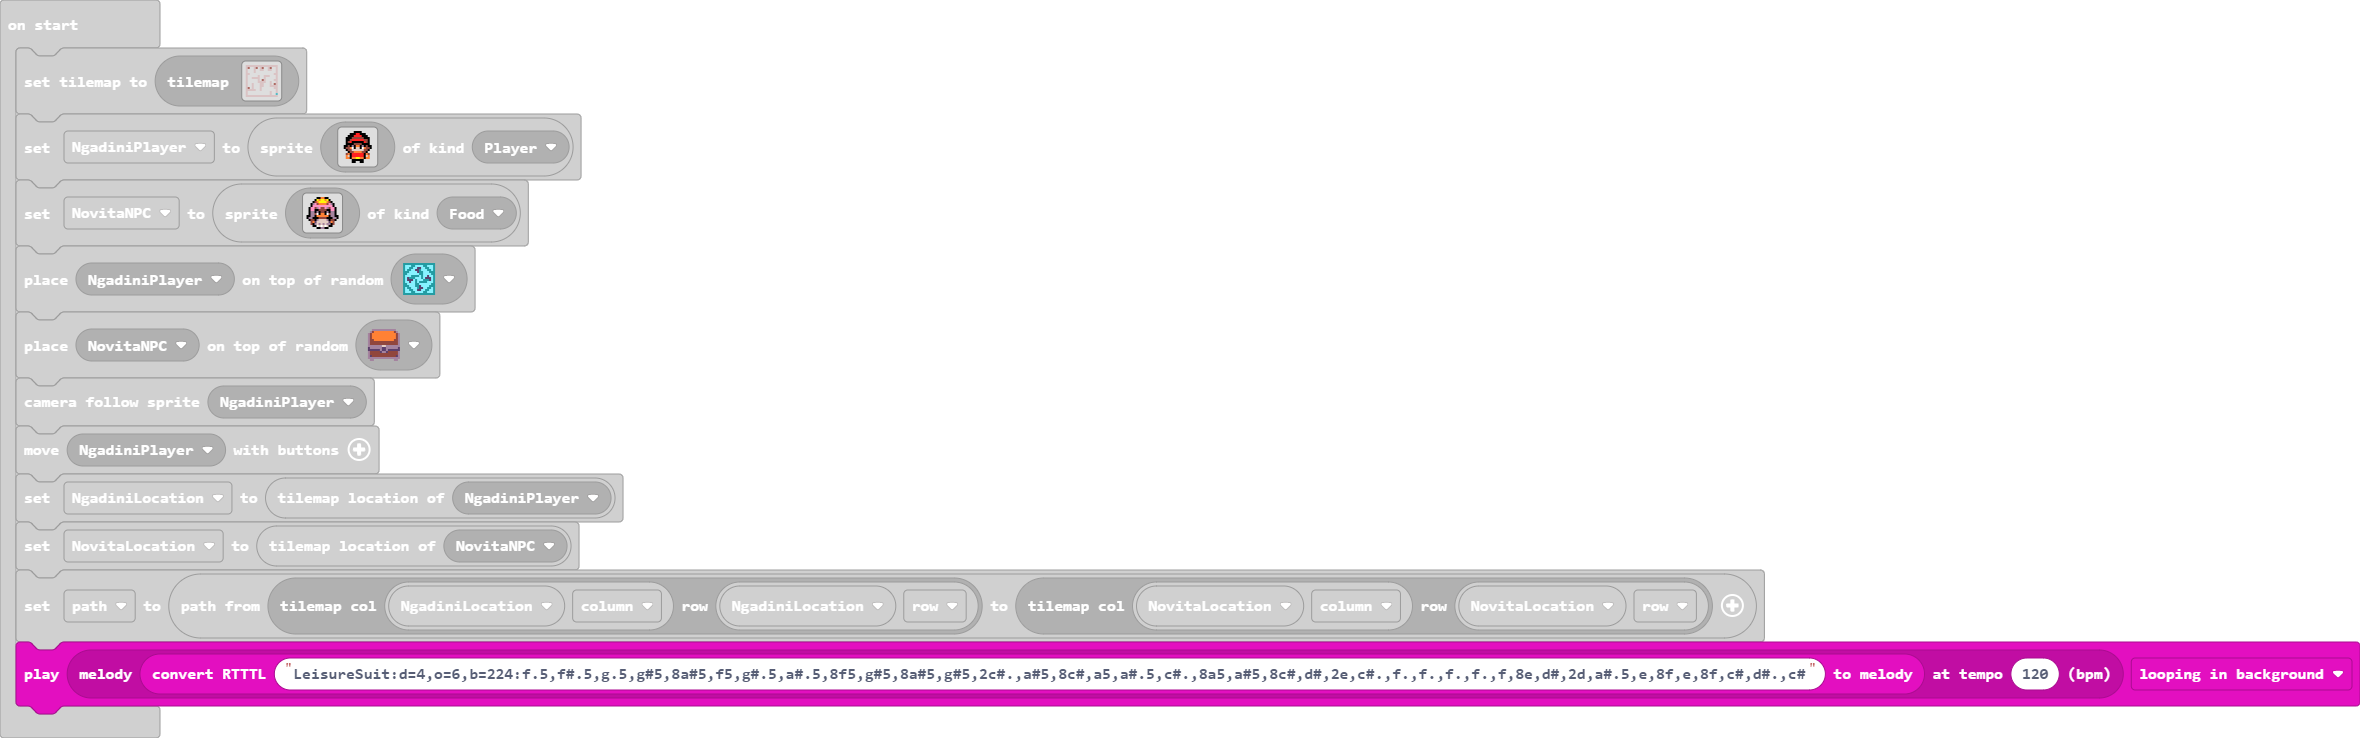
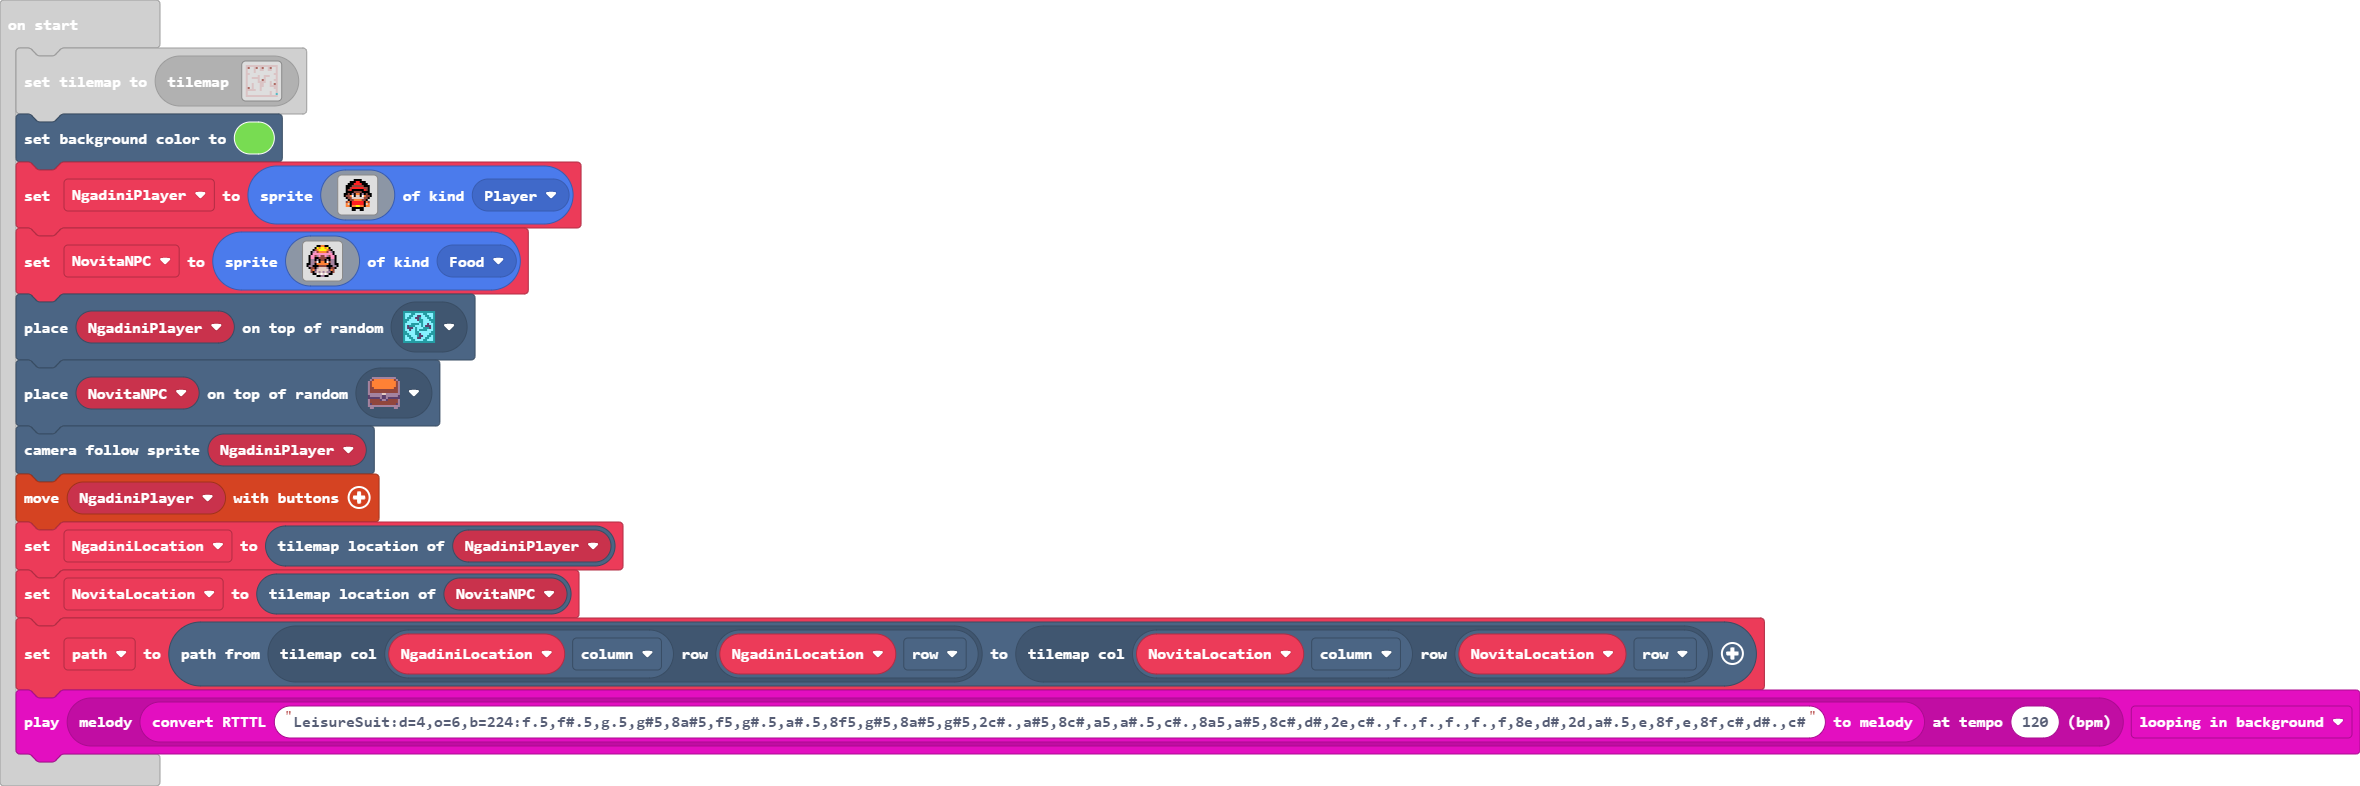
Add background colour

Changed region(s): [[0.0, 0.0623, 1.0, 0.9661]]

diff --git a/main.ts b/main.ts
@@ -1,30 +1,32 @@
-controller.A.onEvent(ControllerButtonEvent.Pressed, function () {
-    animation.runImageAnimation(
-    NgadiniPlayer,
-    assets.animation`NgadiniWalk`,
-    100,
-    true
-    )
+controller.A.onEvent(ControllerButtonEvent.Pressed, function on_a_pressed() {
+    animation.runImageAnimation(NgadiniPlayer, assets.animation`
+            NgadiniWalk
+        `, 100, true)
     scene.followPath(NgadiniPlayer, path, 100)
 })
-sprites.onOverlap(SpriteKind.Player, SpriteKind.Food, function (sprite, otherSprite) {
+sprites.onOverlap(SpriteKind.Player, SpriteKind.Food, function on_on_overlap(sprite: Sprite, otherSprite: Sprite) {
     if (NovitaNPC.overlapsWith(NgadiniPlayer)) {
         animation.stopAnimation(animation.AnimationTypes.All, NgadiniPlayer)
-        animation.runImageAnimation(
-        NovitaNPC,
-        assets.animation`NovitaFound`,
-        100,
-        true
-        )
+        animation.runImageAnimation(NovitaNPC, assets.animation`
+                NovitaFound
+            `, 100, true)
         NovitaNPC.sayText("You Got Me!", 200, false)
     }
+    
 })
-let path: tiles.Location[] = []
-let NovitaNPC: Sprite = null
-let NgadiniPlayer: Sprite = null
-tiles.setCurrentTilemap(tilemap`level1`)
-NgadiniPlayer = sprites.create(assets.image`Ngadini`, SpriteKind.Player)
-NovitaNPC = sprites.create(assets.image`Novita`, SpriteKind.Food)
+let path : tiles.Location[] = []
+let NovitaNPC : Sprite = null
+let NgadiniPlayer : Sprite = null
+tiles.setCurrentTilemap(tilemap`
+    level1
+`)
+scene.setBackgroundColor(7)
+NgadiniPlayer = sprites.create(assets.image`
+    Ngadini
+`, SpriteKind.Player)
+NovitaNPC = sprites.create(assets.image`
+    Novita
+`, SpriteKind.Food)
 tiles.placeOnRandomTile(NgadiniPlayer, sprites.dungeon.collectibleInsignia)
 tiles.placeOnRandomTile(NovitaNPC, sprites.dungeon.chestClosed)
 scene.cameraFollowSprite(NgadiniPlayer)

diff --git a/main.py b/main.py
@@ -26,6 +26,7 @@ NgadiniPlayer: Sprite = None
 tiles.set_current_tilemap(tilemap("""
     level1
 """))
+scene.set_background_color(7)
 NgadiniPlayer = sprites.create(assets.image("""
     Ngadini
 """), SpriteKind.player)
